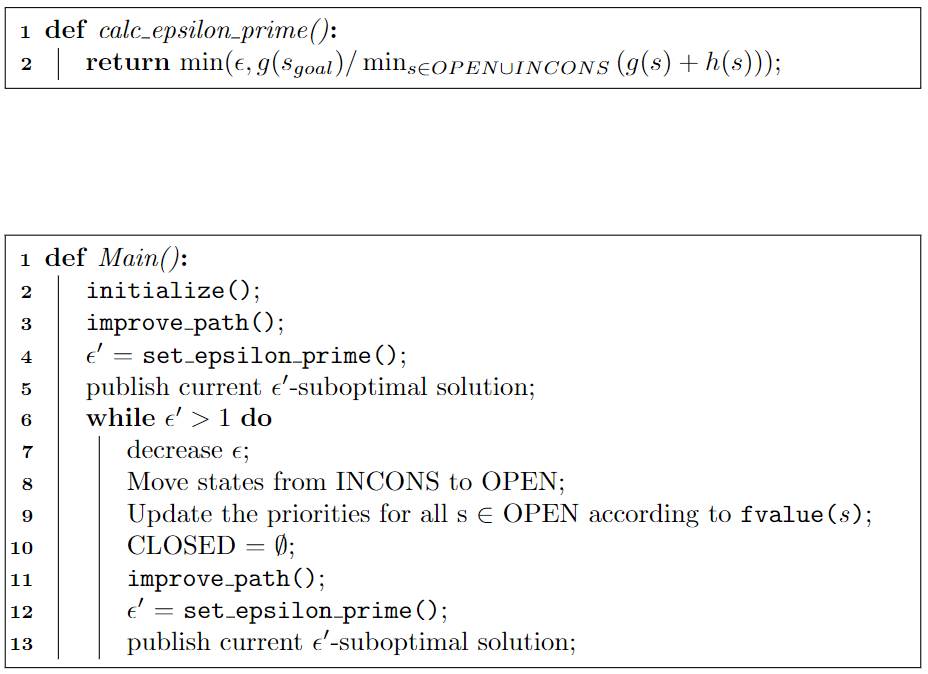
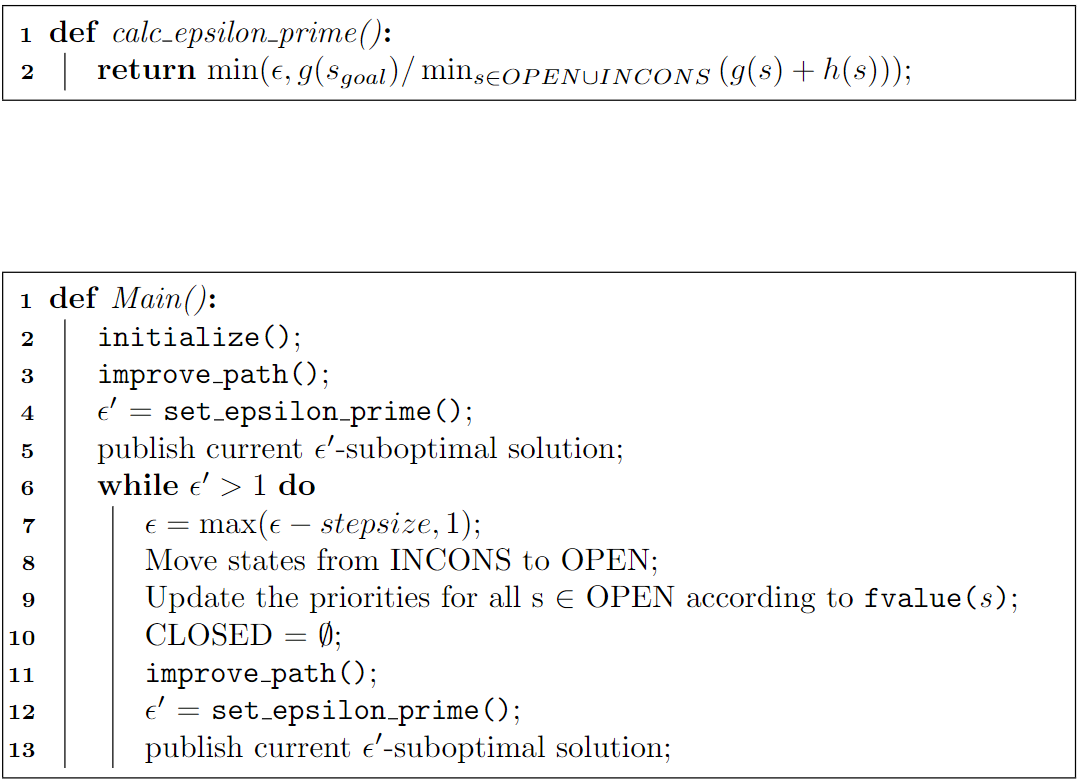
updated pseudocode and unit tests for large graph; renamed raul soln

Changed region(s): [[0.0, 0.3427, 1.0, 0.997], [0.0, 0.0, 1.0, 0.1558]]

diff --git a/tests.py b/tests.py
@@ -154,190 +154,13 @@ def test_run(fn):
         assert_almost_equal(planner.path_cost(eps), cost)
 
     paths_found_soln = {
-        1: [State(x=24, y=4),
-            State(x=24, y=5),
-            State(x=24, y=6),
-            State(x=24, y=7),
-            State(x=25, y=8),
-            State(x=26, y=9),
-            State(x=27, y=10),
-            State(x=27, y=11),
-            State(x=27, y=12),
-            State(x=27, y=13),
-            State(x=27, y=14),
-            State(x=27, y=15),
-            State(x=27, y=16),
-            State(x=27, y=17),
-            State(x=27, y=18),
-            State(x=28, y=19),
-            State(x=27, y=20),
-            State(x=26, y=21),
-            State(x=25, y=22),
-            State(x=24, y=23),
-            State(x=23, y=24),
-            State(x=22, y=25),
-            State(x=21, y=26),
-            State(x=20, y=27),
-            State(x=19, y=28),
-            State(x=18, y=29),
-            State(x=17, y=30),
-            State(x=16, y=31),
-            State(x=15, y=32),
-            State(x=14, y=33),
-            State(x=13, y=34),
-            State(x=12, y=35),
-            State(x=11, y=36),
-            State(x=10, y=37),
-            State(x=9, y=38),
-            State(x=8, y=39),
-            State(x=7, y=40),
-            State(x=6, y=41),
-            State(x=5, y=42),
-            State(x=4, y=43),
-            State(x=4, y=44)],
-        1.1: [State(x=24, y=4),
-            State(x=23, y=5),
-            State(x=22, y=5),
-            State(x=21, y=6),
-            State(x=20, y=7),
-            State(x=19, y=8),
-            State(x=18, y=8),
-            State(x=17, y=8),
-            State(x=16, y=8),
-            State(x=15, y=8),
-            State(x=14, y=8),
-            State(x=13, y=9),
-            State(x=13, y=10),
-            State(x=13, y=11),
-            State(x=13, y=12),
-            State(x=13, y=13),
-            State(x=13, y=14),
-            State(x=13, y=15),
-            State(x=13, y=16),
-            State(x=13, y=17),
-            State(x=13, y=18),
-            State(x=13, y=19),
-            State(x=13, y=20),
-            State(x=13, y=21),
-            State(x=13, y=22),
-            State(x=13, y=23),
-            State(x=13, y=24),
-            State(x=13, y=25),
-            State(x=13, y=26),
-            State(x=13, y=27),
-            State(x=14, y=28),
-            State(x=15, y=29),
-            State(x=14, y=30),
-            State(x=13, y=31),
-            State(x=12, y=32),
-            State(x=11, y=33),
-            State(x=10, y=34),
-            State(x=9, y=35),
-            State(x=8, y=36),
-            State(x=7, y=37),
-            State(x=6, y=38),
-            State(x=6, y=39),
-            State(x=6, y=40),
-            State(x=5, y=41),
-            State(x=5, y=42),
-            State(x=4, y=43),
-            State(x=4, y=44)],
-        1.3: [State(x=24, y=4),
-            State(x=23, y=5),
-            State(x=22, y=6),
-            State(x=21, y=7),
-            State(x=20, y=8),
-            State(x=19, y=8),
-            State(x=18, y=8),
-            State(x=17, y=8),
-            State(x=16, y=8),
-            State(x=15, y=8),
-            State(x=14, y=8),
-            State(x=13, y=9),
-            State(x=13, y=10),
-            State(x=13, y=11),
-            State(x=13, y=12),
-            State(x=13, y=13),
-            State(x=13, y=14),
-            State(x=12, y=15),
-            State(x=12, y=16),
-            State(x=12, y=17),
-            State(x=11, y=18),
-            State(x=10, y=19),
-            State(x=9, y=20),
-            State(x=8, y=21),
-            State(x=7, y=22),
-            State(x=6, y=23),
-            State(x=5, y=24),
-            State(x=4, y=25),
-            State(x=3, y=26),
-            State(x=2, y=27),
-            State(x=1, y=28),
-            State(x=0, y=29),
-            State(x=0, y=30),
-            State(x=0, y=31),
-            State(x=1, y=32),
-            State(x=1, y=33),
-            State(x=1, y=34),
-            State(x=1, y=35),
-            State(x=2, y=36),
-            State(x=2, y=37),
-            State(x=2, y=38),
-            State(x=3, y=39),
-            State(x=3, y=40),
-            State(x=3, y=41),
-            State(x=3, y=42),
-            State(x=4, y=43),
-            State(x=4, y=44)],
-        1.5: [State(x=24, y=4),
-            State(x=23, y=5),
-            State(x=22, y=6),
-            State(x=21, y=7),
-            State(x=20, y=8),
-            State(x=19, y=8),
-            State(x=18, y=8),
-            State(x=17, y=8),
-            State(x=16, y=8),
-            State(x=15, y=8),
-            State(x=14, y=8),
-            State(x=13, y=9),
-            State(x=13, y=10),
-            State(x=13, y=11),
-            State(x=13, y=12),
-            State(x=13, y=13),
-            State(x=13, y=14),
-            State(x=12, y=15),
-            State(x=12, y=16),
-            State(x=12, y=17),
-            State(x=11, y=18),
-            State(x=10, y=19),
-            State(x=9, y=20),
-            State(x=8, y=21),
-            State(x=7, y=22),
-            State(x=6, y=23),
-            State(x=5, y=24),
-            State(x=4, y=25),
-            State(x=3, y=26),
-            State(x=2, y=27),
-            State(x=1, y=28),
-            State(x=0, y=29),
-            State(x=0, y=30),
-            State(x=0, y=31),
-            State(x=1, y=32),
-            State(x=1, y=33),
-            State(x=1, y=34),
-            State(x=1, y=35),
-            State(x=2, y=36),
-            State(x=2, y=37),
-            State(x=2, y=38),
-            State(x=3, y=39),
-            State(x=3, y=40),
-            State(x=3, y=41),
-            State(x=3, y=42),
-            State(x=4, y=43),
-            State(x=4, y=44)]}
-
-    for eps, path in paths_found_soln.items():
-        assert_equal(path, planner.paths_found.get(eps))
+        1.5: State(x=0, y=29),
+        1.3: State(x=0, y=29),
+        1.1: State(x=15, y=29),
+        1: State(x=28, y=19)
+    }
+    paths_found_user = planner.paths_found
+    for eps, s in paths_found_soln.items():
+        assert s in paths_found_user[eps]
 
     test_ok()

diff --git a/solutions.py b/solutions.py
@@ -72,12 +72,12 @@ def run(planner: ARAStar_Planner):
 
 if __name__ == '__main__':
     test = ARAStar_Planner(GRAPH_LARGE, State(24, 4), State(4, 44), 1.5, .2)
-    run(test)
-    print(test.all_path_costs())
     plotter = ARAStar_Plotter(GRAPH_LARGE, State(24, 4), State(4, 44))
+    plotter.visualize_graph()
+    run(test)
+    plotter.plot_paths_found(test.paths_found)
 
     test = ARAStar_Planner(GRAPH_SMALL, State(0, 0), State(6, 5), 2.5, 1)
     plotter = ARAStar_Plotter(GRAPH_SMALL, State(0, 0), State(6, 5))
-
     run(test)
     plotter.plot_paths_found(test.paths_found)
